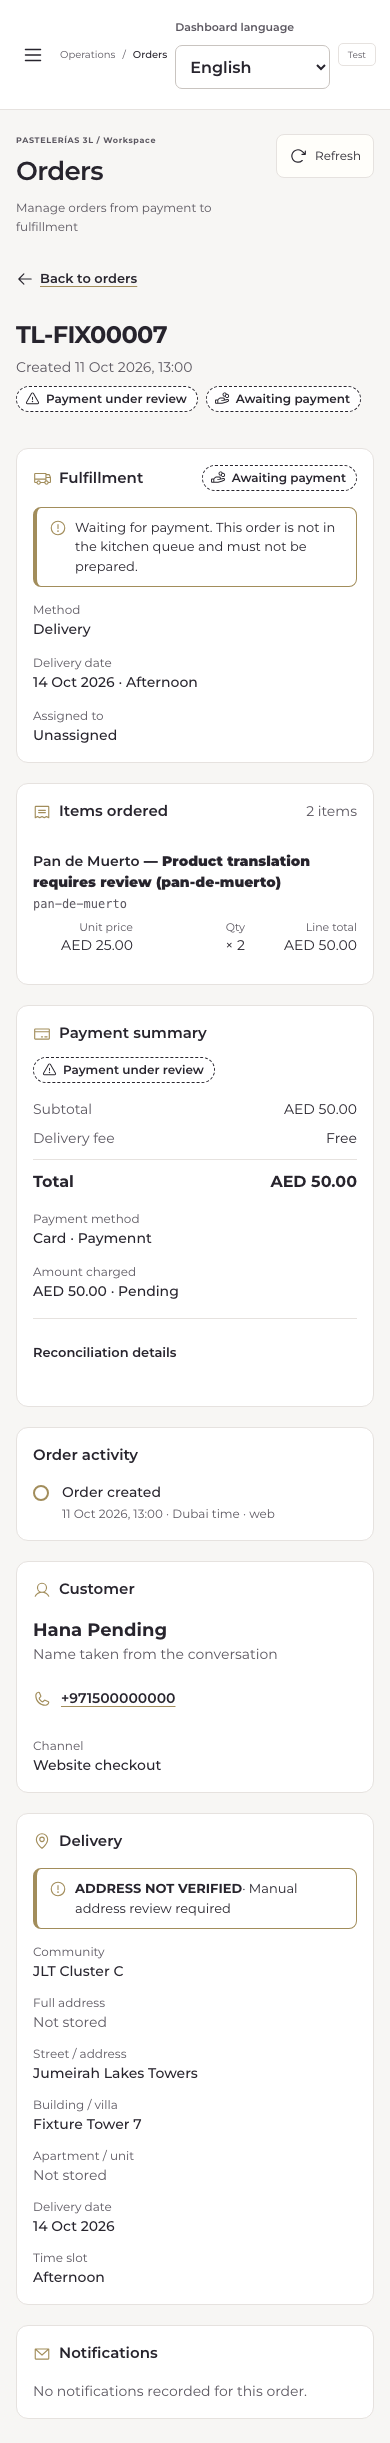
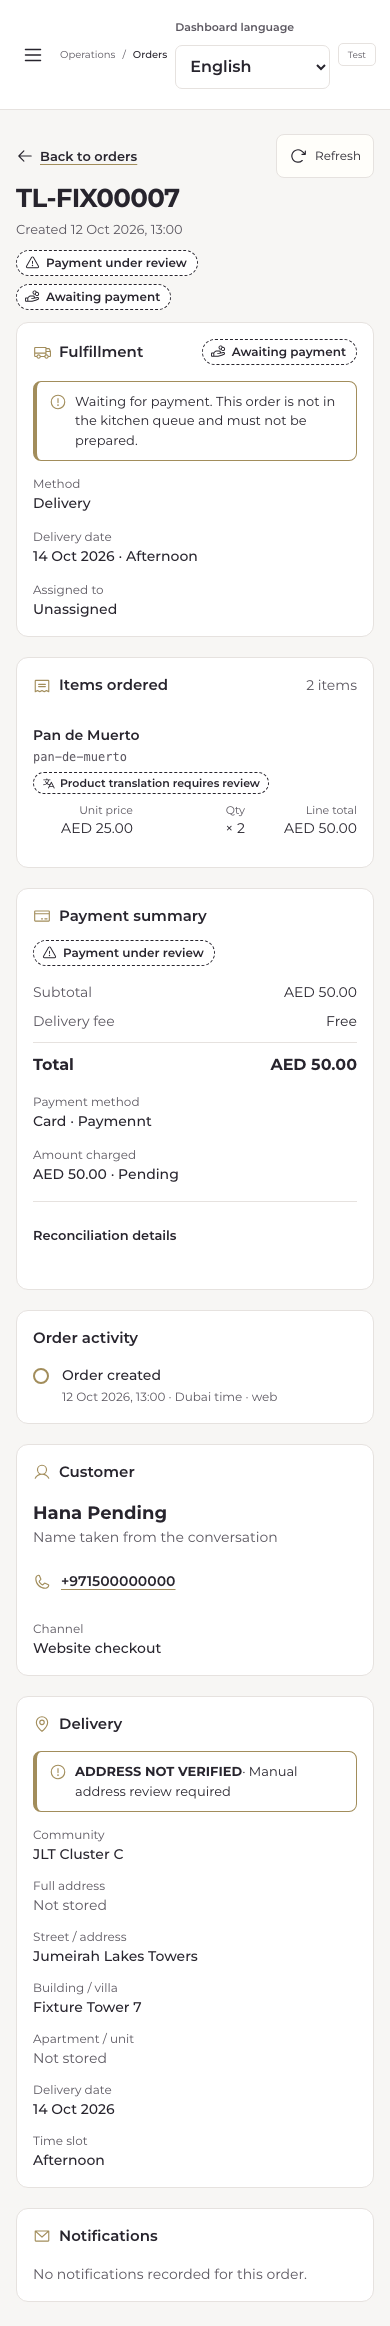
docs(operations): Tagalog review checklist, address review and known failure

diff --git a/docs/operations/oms/tagalog-review.md b/docs/operations/oms/tagalog-review.md
@@ -1,0 +1,135 @@
+# Tagalog review checklist · TL-OMS-01
+
+**Status: NOT reviewed by a native speaker.** These 105 labels were written by the implementer to match the style of the existing `tl.json`. No native or professional review has been performed. English is the fallback and the default; Tagalog is a per-user preference in Operations only and never reaches customers.
+
+How to review: switch Dashboard language to Tagalog, open Orders and one order of each kind (paid delivery, pickup, awaiting payment, cancelled, draft), and tick each row. Corrections go in `src/commerce/locales/tl.json` only; keys and `{{placeholders}}` must not change (a unit test enforces both).
+
+## A. Priority: wording carries operational or financial meaning, or grammar is uncertain (40)
+
+| ✓   | English                                                                                       | Tagalog as shipped                                                                                                   | Why it needs a native check                                                                      |
+| --- | --------------------------------------------------------------------------------------------- | -------------------------------------------------------------------------------------------------------------------- | ------------------------------------------------------------------------------------------------ |
+| ☐   | {{count}} orders                                                                              | {{count}} order                                                                                                      | Tagalog does not pluralise the noun; confirm “{{count}} order”.                                  |
+| ☐   | {{shown}} of {{count}} orders                                                                 | {{shown}} sa {{count}} order                                                                                         | Count grammar (“sa”).                                                                            |
+| ☐   | Filter by fulfillment status                                                                  | I-filter ayon sa katayuan ng order                                                                                   | Depends on the term chosen for Fulfillment.                                                      |
+| ☐   | Fulfillment method                                                                            | Paraan ng pagtanggap                                                                                                 | “Paraan ng pagtanggap” (how it is received) is an interpretation.                                |
+| ☐   | Fulfillment                                                                                   | Paghahanda at paghahatid                                                                                             | Coined phrase for a term with no standard Tagalog equivalent; staff may prefer the English word. |
+| ☐   | Showing {{first}}–{{last}} of {{count}}                                                       | Ipinapakita ang {{first}}–{{last}} sa {{count}}                                                                      | Count grammar.                                                                                   |
+| ☐   | Page {{page}} of {{pages}}                                                                    | Pahina {{page}} ng {{pages}}                                                                                         | “ng” vs “sa”.                                                                                    |
+| ☐   | Not in the kitchen queue                                                                      | Wala sa pila ng kusina                                                                                               | Safety-relevant label on unpaid orders.                                                          |
+| ☐   | Created {{date}}                                                                              | Ginawa noong {{date}}                                                                                                | Date follows “noong”; confirm with the fil-PH date format.                                       |
+| ☐   | Order builder                                                                                 | Pagbuo ng order                                                                                                      | Coined.                                                                                          |
+| ☐   | Waiting for payment. This order is not in the kitchen queue and must not be prepared.         | Hinihintay ang bayad. Wala sa pila ng kusina ang order na ito at hindi dapat ihanda.                                 | Safety instruction; must be unambiguous.                                                         |
+| ☐   | This order was cancelled. Cancelling does not refund a payment; see the payment status.       | Kinansela ang order na ito. Ang pagkansela ay hindi nagre-refund ng bayad; tingnan ang katayuan ng bayad.            | Financial meaning; must be unambiguous.                                                          |
+| ☐   | Draft order. It has not been sent for payment yet.                                            | Draft na order. Hindi pa ito naipapadala para sa bayad.                                                              | “Draft” left in English, matching the existing file.                                             |
+| ☐   | Fulfillment progress                                                                          | Pag-usad ng order                                                                                                    | Generic wording; confirm it reads naturally.                                                     |
+| ☐   | Assigned to                                                                                   | Nakatalaga kay                                                                                                       | “Nakatalaga kay” is followed by a name or by “Unassigned”; check both readings.                  |
+| ☐   | Last status change by                                                                         | Huling nagbago ng katayuan                                                                                           | Noun phrase used as a label; confirm.                                                            |
+| ☐   | Assigned to {{name}}. Only the assigned operator can advance this order.                      | Nakatalaga kay {{name}}. Ang nakatalagang operator lang ang makakapagsulong ng order na ito.                         | Name interpolation after “kay”; “makakapagsulong” may be too formal.                             |
+| ☐   | Take this order to enable the next step: {{step}}.                                            | Kunin ang order na ito para magamit ang susunod na hakbang: {{step}}.                                                | Interpolates an already-translated button label.                                                 |
+| ☐   | {{count}} items                                                                               | {{count}} item                                                                                                       | Count grammar.                                                                                   |
+| ☐   | Unit price                                                                                    | Presyo bawat isa                                                                                                     | “Presyo bawat isa”; confirm against how the team says it.                                        |
+| ☐   | Qty                                                                                           | Dami                                                                                                                 | “Dami”; abbreviation context.                                                                    |
+| ☐   | Line total                                                                                    | Kabuuan ng linya                                                                                                     | Literal “total of the line”; accounting term may stay English.                                   |
+| ☐   | This order does not store a price for every item. Current catalog prices are not substituted. | Walang naka-save na presyo ang order na ito para sa bawat item. Hindi ipinapalit ang kasalukuyang presyo sa catalog. | Long technical sentence.                                                                         |
+| ☐   | Free                                                                                          | Libre                                                                                                                | “Libre” for a zero delivery fee.                                                                 |
+| ☐   | Amount charged                                                                                | Halagang siningil                                                                                                    | “Halagang siningil”; financial.                                                                  |
+| ☐   | Paid at                                                                                       | Binayaran noong                                                                                                      | “Binayaran noong” precedes a date-time.                                                          |
+| ☐   | Reconciliation details                                                                        | Mga detalye ng reconciliation                                                                                        | “Reconciliation” left in English, matching the existing file.                                    |
+| ☐   | Last reconciliation                                                                           | Huling reconciliation                                                                                                | Same term choice as above.                                                                       |
+| ☐   | Name taken from the conversation                                                              | Pangalan mula sa pag-uusap                                                                                           | Explanatory note.                                                                                |
+| ☐   | Community                                                                                     | Komunidad                                                                                                            | “Komunidad” for a Dubai delivery area; the existing file uses “Lugar” for Area.                  |
+| ☐   | Time slot                                                                                     | Oras ng paghahatid                                                                                                   | Rendered “Oras ng paghahatid” (delivery time); a slot is a window, not a time.                   |
+| ☐   | Dubai time                                                                                    | Oras ng Dubai                                                                                                        | Confirm “Oras ng Dubai”.                                                                         |
+| ☐   | All fulfillment                                                                               | Lahat ng katayuan                                                                                                    | Rendered as “all statuses”; confirm.                                                             |
+| ☐   | Payment issue                                                                                 | May problema sa bayad                                                                                                | Status label; confirm tone.                                                                      |
+| ☐   | Picked up                                                                                     | Na-pickup na                                                                                                         | “Na-pickup na” is Taglish, consistent with existing “Pickup”.                                    |
+| ☐   | Internal WhatsApp alert recorded                                                              | Naitala ang panloob na abiso sa WhatsApp                                                                             | “Naitala” (recorded) vs sent must stay distinct.                                                 |
+| ☐   | Internal WhatsApp alert sent                                                                  | Naipadala ang panloob na abiso sa WhatsApp                                                                           | Must stay distinct from recorded.                                                                |
+| ☐   | Internal paid-order email recorded                                                            | Naitala ang panloob na email ng bayad na order                                                                       | Compound noun.                                                                                   |
+| ☐   | Internal paid-order email sent                                                                | Naipadala ang panloob na email ng bayad na order                                                                     | Compound noun.                                                                                   |
+| ☐   | New paid order                                                                                | Bagong bayad na order                                                                                                | Compound noun.                                                                                   |
+
+## B. Left in English on purpose (9)
+
+Brand names, units and terms the existing file also keeps in English. Confirm each should stay.
+
+| ✓   | Label                   |
+| --- | ----------------------- |
+| ☐   | Delivery                |
+| ☐   | Pickup · 3L Pastelerías |
+| ☐   | Subtotal                |
+| ☐   | Provider                |
+| ☐   | Email                   |
+| ☐   | Channel                 |
+| ☐   | GPS                     |
+| ☐   | Test provider           |
+| ☐   | Card · Paymennt         |
+
+## C. Routine labels (56)
+
+Lower risk, still unreviewed.
+
+| ✓   | English                                                                                             | Tagalog as shipped                                                                                              |
+| --- | --------------------------------------------------------------------------------------------------- | --------------------------------------------------------------------------------------------------------------- |
+| ☐   | Order number, customer, phone or email                                                              | Numero ng order, customer, telepono o email                                                                     |
+| ☐   | Filters                                                                                             | Mga filter                                                                                                      |
+| ☐   | Payment status                                                                                      | Katayuan ng bayad                                                                                               |
+| ☐   | Delivery and pickup                                                                                 | Delivery at pickup                                                                                              |
+| ☐   | Order date                                                                                          | Petsa ng order                                                                                                  |
+| ☐   | Order date from                                                                                     | Petsa ng order mula                                                                                             |
+| ☐   | Order date to                                                                                       | Petsa ng order hanggang                                                                                         |
+| ☐   | Delivery or pickup date                                                                             | Petsa ng delivery o pickup                                                                                      |
+| ☐   | Delivery date from                                                                                  | Petsa ng delivery mula                                                                                          |
+| ☐   | Delivery date to                                                                                    | Petsa ng delivery hanggang                                                                                      |
+| ☐   | Clear search and filters                                                                            | I-clear ang paghahanap at mga filter                                                                            |
+| ☐   | Date                                                                                                | Petsa                                                                                                           |
+| ☐   | Items                                                                                               | Mga item                                                                                                        |
+| ☐   | Payment                                                                                             | Bayad                                                                                                           |
+| ☐   | Orders pages                                                                                        | Mga pahina ng order                                                                                             |
+| ☐   | Previous                                                                                            | Nakaraan                                                                                                        |
+| ☐   | Next                                                                                                | Susunod                                                                                                         |
+| ☐   | No orders match these filters                                                                       | Walang order na tugma sa mga filter na ito                                                                      |
+| ☐   | No orders yet                                                                                       | Wala pang order                                                                                                 |
+| ☐   | Change or clear the search and filters to see other orders.                                         | Baguhin o i-clear ang paghahanap at mga filter para makita ang ibang order.                                     |
+| ☐   | Orders appear here as soon as they are created.                                                     | Lalabas dito ang mga order sa sandaling magawa ang mga ito.                                                     |
+| ☐   | Name not recorded                                                                                   | Walang naitalang pangalan                                                                                       |
+| ☐   | Back to orders                                                                                      | Bumalik sa mga order                                                                                            |
+| ☐   | Order not found                                                                                     | Hindi nakita ang order                                                                                          |
+| ☐   | No order with this reference exists in this workspace. Check the link or return to the orders list. | Walang order na may ganitong reference sa workspace na ito. Suriin ang link o bumalik sa listahan ng mga order. |
+| ☐   | Creation time not stored                                                                            | Hindi naka-save ang oras ng paggawa                                                                             |
+| ☐   | This order is still being built. Products, location and the payment request are managed here.       | Binubuo pa ang order na ito. Dito pinamamahalaan ang mga produkto, lokasyon at paghingi ng bayad.               |
+| ☐   | Method                                                                                              | Paraan                                                                                                          |
+| ☐   | Pickup date                                                                                         | Petsa ng pickup                                                                                                 |
+| ☐   | Delivery date                                                                                       | Petsa ng delivery                                                                                               |
+| ☐   | Items ordered                                                                                       | Mga in-order na item                                                                                            |
+| ☐   | No products on this order yet.                                                                      | Wala pang produkto sa order na ito.                                                                             |
+| ☐   | Payment summary                                                                                     | Buod ng bayad                                                                                                   |
+| ☐   | Delivery fee                                                                                        | Bayad sa delivery                                                                                               |
+| ☐   | Payment method                                                                                      | Paraan ng pagbabayad                                                                                            |
+| ☐   | No payment has been requested for this order.                                                       | Wala pang hinihinging bayad para sa order na ito.                                                               |
+| ☐   | Provider status                                                                                     | Katayuan sa provider                                                                                            |
+| ☐   | Transaction                                                                                         | Transaksyon                                                                                                     |
+| ☐   | Payment reference                                                                                   | Reference ng bayad                                                                                              |
+| ☐   | Phone                                                                                               | Telepono                                                                                                        |
+| ☐   | No contact details stored.                                                                          | Walang naka-save na contact.                                                                                    |
+| ☐   | Website checkout                                                                                    | Checkout sa website                                                                                             |
+| ☐   | Pickup point                                                                                        | Lugar ng pickup                                                                                                 |
+| ☐   | No notifications recorded for this order.                                                           | Walang naitalang abiso para sa order na ito.                                                                    |
+| ☐   | Order activity                                                                                      | Aktibidad ng order                                                                                              |
+| ☐   | No activity recorded.                                                                               | Walang naitalang aktibidad.                                                                                     |
+| ☐   | Open order page                                                                                     | Buksan ang pahina ng order                                                                                      |
+| ☐   | All payments                                                                                        | Lahat ng bayad                                                                                                  |
+| ☐   | Ready for pickup                                                                                    | Handa na para sa pickup                                                                                         |
+| ☐   | Card · Paymennt (website checkout)                                                                  | Card · Paymennt (checkout sa website)                                                                           |
+| ☐   | Customer email recorded                                                                             | Naitala ang email sa customer                                                                                   |
+| ☐   | Customer email sent                                                                                 | Naipadala ang email sa customer                                                                                 |
+| ☐   | Internal WhatsApp                                                                                   | Panloob na WhatsApp                                                                                             |
+| ☐   | Internal email                                                                                      | Panloob na email                                                                                                |
+| ☐   | Customer email                                                                                      | Email sa customer                                                                                               |
+| ☐   | Order created                                                                                       | Nagawa ang order                                                                                                |
+
+## Sign-off
+
+- Reviewer (native Tagalog speaker): ____________________
+- Date: ____________________
+- Result: ☐ approved as is ☐ approved with the corrections applied ☐ not approved

diff --git a/docs/operations/oms/address-dispatch-review.md b/docs/operations/oms/address-dispatch-review.md
@@ -1,0 +1,31 @@
+# Review: fulfilment actions on orders with incomplete or unverified addresses
+
+Scope: what the UI and the backend do today. **No state-machine or backend change is made in TL-OMS-01.** Safeguards at the end are proposals awaiting a decision.
+
+## Findings
+
+1. **The backend does not check the address on any transition.** `transition` in `server/domain/service.ts` requires a paid payment before Production, Ready, Out for Delivery and Delivered, and blocks payment-owned states. `server/domain/workflow.ts` only validates the state path and the pickup shortcut. An order can go Ready → Out for Delivery → Delivered with an empty street or building and without verification.
+2. **This is existing behaviour, not introduced here.** On `main` (`5aaa33d`) the order card already rendered "Address incomplete · Review address before dispatch" and "ADDRESS NOT VERIFIED" as text while offering the same "Send for delivery" button (`src/commerce/OrdersBoard.tsx`, PR #19). The warnings were advisory then and are advisory now.
+3. **"Unverified" is the normal case, not an exception.** `addressVerification` becomes `VERIFIED` only through the website checkout when Google address mode is active (`server/domain/web-checkout.ts`, `deliveryAddressMode === "google"`). Orders built over WhatsApp, and website orders in the other address mode, are `UNVERIFIED` or carry no value. A hard block on "unverified" would stop most deliveries.
+4. **"Incomplete" should be rare for website orders.** Website checkout requires street and building. Incomplete addresses come from WhatsApp-built orders (free-text address or a GPS pin) and from historical records.
+5. **Pickup orders are exempt** everywhere (no address required, no warning).
+
+## What the order page does now (UI only)
+
+- The Delivery card keeps both warnings from the address hotfix, unchanged in wording.
+- New in the refinement pass: when the next available step is **Send for delivery** and the address is incomplete or unverified, the same warning is repeated directly beside the button. On mobile the Delivery card is far below the action, so the operator previously could dispatch without seeing it.
+- The button stays enabled. Disabling it in the UI alone would be a business rule living only in the browser, bypassable from the Kitchen and Deliveries cards and from the API.
+- Earlier steps (Start preparation, Mark ready) show no dispatch warning: preparing food does not depend on the address.
+
+Covered by `tests/operations-e2e/oms.spec.ts` ("address problems are stated beside the dispatch action…").
+
+## Proposed safeguards (not implemented; each needs approval)
+
+| #   | Proposal                                                                                 | Where                                                      | Effect                                               | Note                                                                                |
+| --- | ---------------------------------------------------------------------------------------- | ---------------------------------------------------------- | ---------------------------------------------------- | ----------------------------------------------------------------------------------- |
+| 1   | Refuse Ready → Out for Delivery when street or building is missing on a delivery order   | Backend, in the `transition` command (not the state table) | Hard stop for clearly undeliverable orders           | Needs a way to complete the address first; today paid orders cannot be edited       |
+| 2   | Add an "address confirmed by operator" action recording who confirmed and when           | Backend command + one stored field                         | Gives unverified addresses an auditable manual check | Schema/contract change: out of scope without approval                               |
+| 3   | Require an explicit confirmation step in the UI before dispatching an unverified address | Frontend                                                   | Friction at the risky moment, no backend change      | Weakest option; must also be added to Kitchen and Deliveries cards to be consistent |
+| 4   | Apply the same beside-the-button warning on the Kitchen and Deliveries cards             | Frontend                                                   | Consistency with the order page                      | Small; left out to keep this pass within its scope                                  |
+
+Recommended order if approved: 4 (cheap, consistent), then 1 together with 2 so a blocked order has a way forward.

diff --git a/docs/operations/oms/known-failures.md b/docs/operations/oms/known-failures.md
@@ -1,0 +1,36 @@
+# Known failing test outside TL-OMS-01
+
+One test in the required `npm run test:e2e:build` gate fails. It is a customer-storefront test, it fails the same way on a clean `main`, and this branch does not touch the files it exercises. It has **not** been skipped, edited or weakened.
+
+|                             |                                                                                                |
+| --------------------------- | ---------------------------------------------------------------------------------------------- |
+| Test                        | `tests/e2e/brand.spec.ts:94` · "unavailable video never blocks the poster, content or catalog" |
+| Assertion                   | `.ref-hero video` has `poster="/brand/approved/packaging-poster.webp"`                         |
+| Actual                      | `poster="/brand/approved/story-desktop-poster.webp"`                                           |
+| Suite result on this branch | 12 passed, 1 failed                                                                            |
+
+## Evidence on clean `main`
+
+Fresh detached worktree of `origin/main` at `5aaa33dba3483061d9688fabdf0fee9203d3c833`, no local changes, `npm run build` exit 0, then:
+
+```
+E2E_BUILD=true npx playwright test tests/e2e/brand.spec.ts -g "unavailable video"
+
+  1) tests/e2e/brand.spec.ts:94:1 › unavailable video never blocks the poster, content or catalog
+    Error: expect(locator).toHaveAttribute(expected) failed
+    Locator:  locator('.ref-hero video')
+    Expected: "/brand/approved/packaging-poster.webp"
+    Received: "/brand/approved/story-desktop-poster.webp"
+  1 failed
+```
+
+Run twice (first implementation pass and this refinement pass), same result both times.
+
+## Why it is unrelated
+
+- The test covers the homepage hero video. This branch changes only `src/commerce/**`, one static route in `server/http.ts`, tests and docs: `git diff --stat origin/main -- src/brand src/styles.css public` is empty.
+- Likely cause, not verified further: the homepage serves the story film at widths of 1024px and above and the packaging video below (recorded in `AGENTS.md`, 9 October 2026), while the test runs at 1440px and still expects the packaging poster.
+
+## Not covered by CI
+
+The `commerce-ci` workflow runs typecheck, lint, build, unit tests, Sites test, secret scan and audit. It does not run Playwright, so this failure does not appear in the pull request's checks. It needs its own fix by whoever owns the storefront hero.

diff --git a/AGENTS.md b/AGENTS.md
@@ -149,5 +149,6 @@ Build app UI in `src/`. Keep `.openai/hosting.json`, `worker/index.js`, `scripts
 ## TL-OMS-01 order management (13 October 2026, Joel)
 - Operations → Orders is a list (`OrdersList`) plus one page per order at `/operations/orders/:orderId` (`OrderDetails`), keyed by the internal id; `?order=` links are rewritten to it. Kitchen, Deliveries and Inbox keep `OrderCard` / `OrderPanel`.
 - Presentation rules live in `src/commerce/order-view.ts` (pure, tested). Never duplicate state-machine or permission logic in components; actions reuse the existing commands and the server stays the authority.
-- Operations palette is now blush-light `#F6DFE0`, blush `#FFC0C8`, gold `#A28D5B`, white and ink only; this supersedes "Operations keeps its TL-27 styling". No purple or green. Gold never carries white text (ink on gold). `operations-shell.css` may differ from the baseline in colour declarations only; new order styles go in `oms.css`, scoped to `.commerce.ops-shell`.
+- Operations palette: the only chromatic colours in any `src/commerce/*.css` are `#F6DFE0`, `#FFC0C8` and `#A28D5B`, plus ink `#27242D` and grey `#5A565F` (enforced in `tests/commerce/oms.test.ts`). No brown, orange, blue, red, purple or green accents: state is carried by icon, label and shape. This supersedes "Operations keeps its TL-27 styling". Gold never carries white text (ink on gold). `operations-shell.css` may differ from the baseline in colour declarations only; new order styles go in `oms.css`, scoped to `.commerce.ops-shell`.
 - Show stored facts only: prices from the order snapshot (unknown stays "Not stored"), customer name from checkout before the conversation label and never a delivery area, notifications "Sent" only with provider evidence. Internal notes and product thumbnails are deferred: no backend field exists. Details: `docs/operations/oms/README.md`.
+- The order page title is the order number (shell `heading` prop). Address warnings are advisory: the backend does not check addresses on transitions; do not add blocking rules in the UI or state machine without approval (`docs/operations/oms/address-dispatch-review.md`). New Tagalog labels are not natively reviewed (`docs/operations/oms/tagalog-review.md`).

diff --git a/docs/operations/oms/README.md b/docs/operations/oms/README.md
@@ -30,6 +30,16 @@ Operations → Orders is an orders list and a dedicated page per order. Not depl
 - Discounts and taxes: not recorded on orders.
 - Card brand / last four digits: not stored; the payment method shows provider and checkout flow only.
 
+## Refinement pass (13 October 2026)
+
+- Palette: across all Operations stylesheets the only chromatic colours are `#F6DFE0`, `#FFC0C8` and `#A28D5B`, plus ink `#27242D` and grey `#5A565F`. Former brown, orange, blue and red accents are gone; errors and warnings are carried by icon, label, border style and alert role. A unit test enforces the set.
+- Order page: the order number is the page title (`h1`); the shell's "Orders" title and description are not repeated. Card titles are `h2`.
+- Products awaiting translation review: the title is the product name; the existing "Product translation requires review" flag is a separate chip under the SKU. Product records, snapshots and the naming rules are unchanged, and Kitchen, Inbox and tickets keep their existing presentation.
+- Mobile fulfillment tabs: edge fade and arrow buttons show when more statuses exist; the selected status is scrolled into view.
+- Address problems are repeated beside the "Send for delivery" action. See `address-dispatch-review.md`.
+- Tagalog: see `tagalog-review.md` (not natively reviewed).
+- Known unrelated failing test: see `known-failures.md`.
+
 ## Evidence
 
 `screenshots/` holds real UI captures from `tests/operations-e2e/oms.spec.ts` at 390, 768 and 1440 px, using the synthetic fixture `tests/fixtures/oms.ts`.
